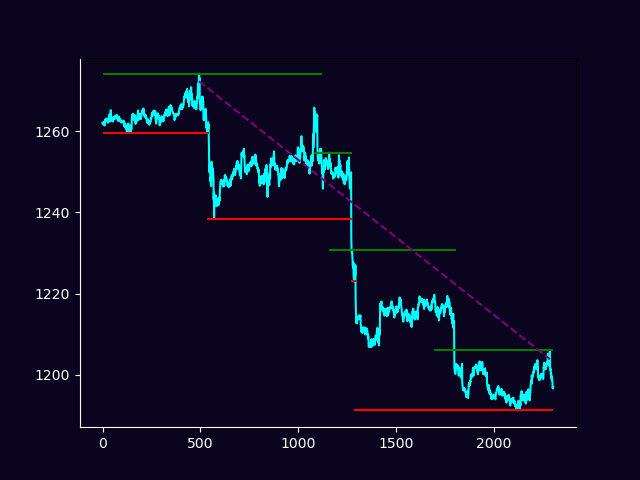
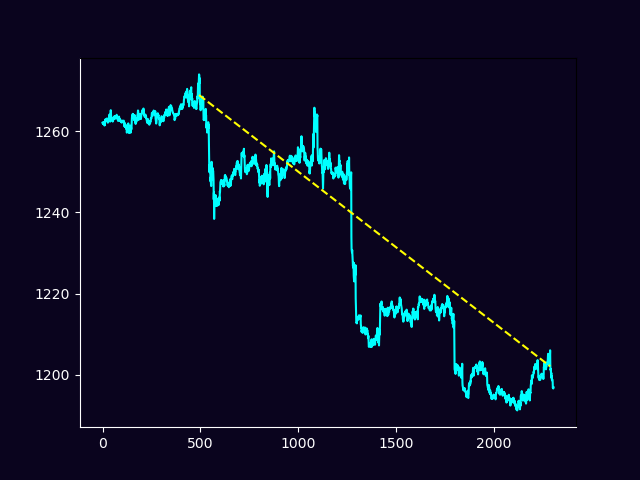
added loading screen

diff --git a/client/src/Pages/AnalysisPage.js b/client/src/Pages/AnalysisPage.js
@@ -1,5 +1,6 @@
 import React, { useEffect } from "react";
 import { useLocation } from "react-router-dom";
+import { LoadingScreen } from "../Components/LoadingScreen";
 import { PlotDisplay } from "../Components/PlotDisplay";
 import TechnicalIndicatorDisplay from "../Components/TechnicalIndicatorDisplay";
 
@@ -13,6 +14,21 @@ const getDate = (date) => {
         date.getFullYear(),
     ].join("/");
 };
+
+const TI = [
+    {
+        key: "SMA",
+        title: "Simple Moving Average",
+        info:
+            "is calculated simply as the mean of the price values over the specified window period",
+    },
+    {
+        key: "EMA",
+        title: "Exponential Moving Average",
+        info:
+            "is calculated simply as the mean of the price values over the specified window period",
+    },
+];
 
 const getLabelMultiplier = (granularity) => {
     switch (granularity) {
@@ -28,6 +44,11 @@ const getLabelMultiplier = (granularity) => {
             return { label: "hours", multiplier: 6 };
         case 84600:
             return { label: "days", multiplier: 1 };
+        default:
+            return {
+                error:
+                    "granularity must be one of 60, 300, 900, 3600, 21600, 84600",
+            };
     }
 };
 
@@ -37,6 +58,10 @@ export const AnalysisPage = () => {
     const [thresholdY, setThresholdY] = React.useState(0.15);
     const [data, setData] = React.useState(null);
     const [loading, setLoading] = React.useState(true);
+
+    const sleep = (milliseconds) => {
+        return new Promise((resolve) => setTimeout(resolve, milliseconds));
+    };
 
     useEffect(() => {
         // getData(coin, granularity, start_date, end_date);
@@ -73,7 +98,9 @@ export const AnalysisPage = () => {
             error: "",
             status_code: 200,
         });
-        setLoading(false);
+        sleep(5000).then(() => {
+            setLoading(false);
+        });
     }, []);
 
     const handleReRun = () => {
@@ -93,7 +120,7 @@ export const AnalysisPage = () => {
             .then((data) => {
                 // setData(data);
             });
-    }
+    };
 
     const getData = () => {
         fetch("http://localhost:5001/analyse/getAnalysis", {
@@ -118,44 +145,60 @@ export const AnalysisPage = () => {
     };
 
     return (
-        <div className="analysis">
-            {!loading && (
-                <div>
-                    <div className="title">
-                        <h4 style={{ fontSize: "2rem", color: "white" }}>
-                            {coin} ({getDate(start_date)} - {getDate(end_date)})
-                        </h4>
-                    </div>
-                    {/* <TechnicalIndicatorDisplay
-                        key="SMA"
-                        data={data["SMA"]}
-                        granularityLabel={getLabelMultiplier(granularity)}
-                        title="Simple Moving Average"
-                        info="is calculated simply as the mean of the price values
-                        over the specified window period"
-                    />
-
-                    <TechnicalIndicatorDisplay
-                        key="EMA"
-                        data={data["EMA"]}
-                        granularityLabel={getLabelMultiplier(granularity)}
-                        title="Exponential Moving Average"
-                        info="is calculated simply as the mean of the price values
-                        over the specified window period"
-                    /> */}
-
-                    <PlotDisplay
-                        {...{
-                            plots: data["support_resistance"],
-                            thresholdX,
-                            setThresholdX,
-                            thresholdY,
-                            setThresholdY,
-                            handleReRun
-                        }}
-                    />
+        <div
+            className="analysis"
+            style={{
+                backgroundBlendMode: loading ? "overlay" : "normal",
+            }}
+        >
+            {loading && <LoadingScreen />}
+            <div
+                style={{
+                    filter: loading ? "brightness(50%)" : "brightness(100%)",
+                }}
+            >
+                <div className="title">
+                    <h4 style={{ fontSize: "2rem", color: "white" }}>
+                        {coin} ({getDate(start_date)} - {getDate(end_date)})
+                    </h4>
                 </div>
-            )}
+
+                <div
+                    style={{
+                        border: "0.01em solid aqua",
+                        width: "90vw",
+                        opacity: "50%",
+                        margin: "7vh 5vw 5vh 5vw",
+                    }}
+                />
+
+                {!loading && (
+                    <>
+                        {TI.map((object) => (
+                            <TechnicalIndicatorDisplay
+                                key={object.key}
+                                data={data[object.key]}
+                                granularityLabel={getLabelMultiplier(
+                                    granularity
+                                )}
+                                title={object.title}
+                                info={object.info}
+                            />
+                        ))}
+
+                        <PlotDisplay
+                            {...{
+                                plots: data["support_resistance"],
+                                thresholdX,
+                                setThresholdX,
+                                thresholdY,
+                                setThresholdY,
+                                handleReRun,
+                            }}
+                        />
+                    </>
+                )}
+            </div>
         </div>
     );
 };

diff --git a/client/src/Components/PlotDisplay.js b/client/src/Components/PlotDisplay.js
@@ -10,7 +10,7 @@ export const PlotDisplay = ({
     setThresholdX,
     thresholdY,
     setThresholdY,
-    handleReRun
+    handleReRun,
 }) => {
     const [levels, setLevels] = React.useState(true);
     const [trendline, setTrendline] = React.useState(true);
@@ -84,9 +84,12 @@ export const PlotDisplay = ({
                                 >
                                     <Button
                                         sx={{
-                                            backgroundColor: "orange",
+                                            backgroundColor: "#f05016",
                                             marginTop: "1vh",
                                             textAlign: "center",
+                                            "&:hover": {
+                                                backgroundColor: "brown",
+                                            },
                                         }}
                                         variant="contained"
                                         size={"small"}
@@ -110,13 +113,15 @@ export const PlotDisplay = ({
                         }}
                     >
                         <img
-                            src={
-                                `http://localhost:5001/${plots[
-                                    (trendline ? 2 : levels) +
-                                        (optimised ? 3 : 0)
-                                ]}.png`
-                            }
-                            style={{ width: "100%" }}
+                            src={`http://localhost:5001/${
+                                plots[
+                                    (levels ? 1 : 0) +
+                                        (trendline ? 2 : 0) +
+                                        (optimised ? 4 : 0)
+                                ]
+                            }.png`}
+                            alt="Something Went Wrong!"
+                            style={{ width: "100%", height: "100%" }}
                         />
                     </div>
                 </div>

diff --git a/client/src/Components/LoadingScreen.js b/client/src/Components/LoadingScreen.js
@@ -1,0 +1,26 @@
+import React from "react";
+import ReactLoading from "react-loading";
+
+export const LoadingScreen = () => {
+    return (
+        <div
+            style={{
+                display: "inline-flex",
+                width: "100vw",
+                height: "100vh",
+                justifyContent: "center",
+                alignItems: "center",
+                margin: "-3vh -3vw 0  0",
+
+                position: "absolute",
+            }}
+        >
+            <ReactLoading
+                type="cylon"
+                color="white"
+                height={"6vh"}
+                width={"6vw"}
+            />
+        </div>
+    );
+};

diff --git a/server/controllers/cryptoAnalyserController.js b/server/controllers/cryptoAnalyserController.js
@@ -48,7 +48,7 @@ exports.reRun = async (req, res) => {
             threshold_x,
             threshold_y,
         ]);
-        console.log("done");
+
         res.status(200).json({
             status_code: 200,
             // analysis: JSON.parse(`${stdout}`),

diff --git a/client/src/App.css b/client/src/App.css
@@ -214,6 +214,9 @@ p {
     min-height: 100vh;
     position: absolute;
     padding-bottom: 10vh;
+    background-image: url("./res/analysis-background-d.jpg");
+    background-size: cover;
+    background-repeat: repeat;
 }
 
 .title {

diff --git a/analysis/analysis.py b/analysis/analysis.py
@@ -32,14 +32,14 @@ output["SMA"] = SMA(data["close"], WINDOWS)
 output["EMA"] = EMA(data["close"], WINDOWS)
 
 find_support_resistance(data["close"], threshold_x, threshold_y, f'{DIRECTORY}')
-output["support_resistance"] = [f'{DIRECTORY[2:]}historical', 
-                                f'{DIRECTORY[2:]}levels', 
-                                f'{DIRECTORY[2:]}trendline', 
-                                f'{DIRECTORY[2:]}both', 
-                                f'{DIRECTORY[2:]}optimised-historical', 
-                                f'{DIRECTORY[2:]}optimised-levels', 
-                                f'{DIRECTORY[2:]}optimised-trendline',
-                                f'{DIRECTORY[2:]}optimised-both']
+output["support_resistance"] = [f'{DIRECTORY[2:]}historical.png', 
+                                f'{DIRECTORY[2:]}levels.png', 
+                                f'{DIRECTORY[2:]}trendline.png', 
+                                f'{DIRECTORY[2:]}both.png', 
+                                f'{DIRECTORY[2:]}optimised-historical.png', 
+                                f'{DIRECTORY[2:]}optimised-levels.png', 
+                                f'{DIRECTORY[2:]}optimised-trendline.png',
+                                f'{DIRECTORY[2:]}optimised-both.png']
 
 
 print(json.dumps(output))

diff --git a/analysis/support_resistance_finder.py b/analysis/support_resistance_finder.py
@@ -142,7 +142,7 @@ def plot(data, minimums, maximums, directory, name_prefix=""):
     plot_trendlines(maximums, ax)
     plot_trendlines(maximums, ax2)
     figure.savefig(f'{directory}{name_prefix}both.png')
-    figure.savefig(f'{directory}{name_prefix}trendlines.png')
+    figure2.savefig(f'{directory}{name_prefix}trendlines.png')
 
         
         
@@ -171,7 +171,7 @@ def plot_trendlines(maximums, ax):
     
     b, m = polyfit(x, y, 1)
         
-    ax.plot(x, b + float(m) * x, linestyle='dashed', color="purple")
+    ax.plot(x, b + float(m) * x, linestyle='dashed', color="yellow")
     
 
 
